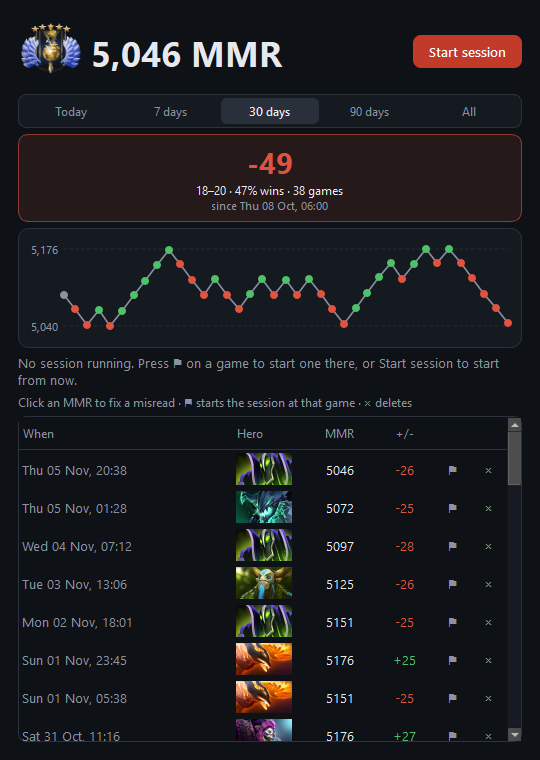
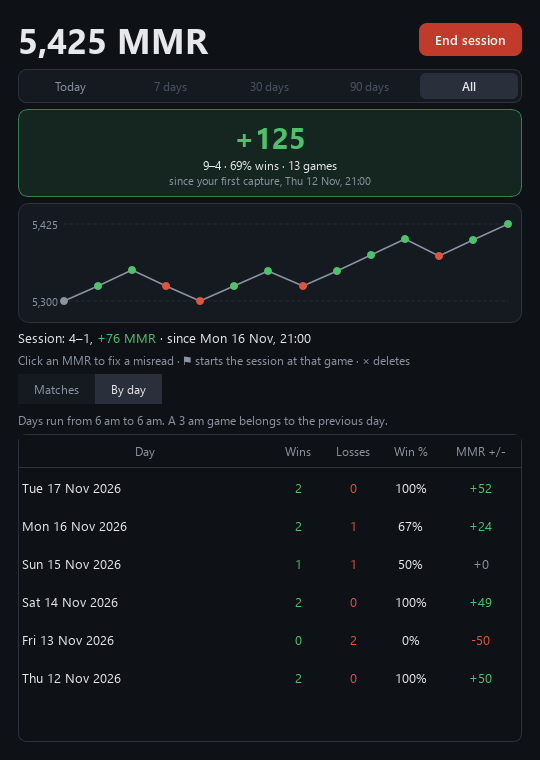
Refresh README screenshots for v0.4.3

diff --git a/README.md b/README.md
@@ -2,7 +2,7 @@
 
 A small always-on-top widget for Dota 2 ranked. It shows your medal and MMR, your last 5 games as W/L boxes with the **MMR +/- of each one**, and your session total. It reads your MMR straight off Dota's screen, so you see the change the moment you open your profile, with no waiting for Dota Plus.
 
-![widget](docs/widget.png)
+![Floating widget showing the last five W/L results and the green Auto toggle](docs/widget.png)
 
 ## Download
 
@@ -63,7 +63,7 @@ The three hotkeys are Ctrl+Shift plus a letter; change the letters under right-c
 - In the history window, pick a period (**Today, 7 days, 30 days, 90 days or All**): the card shows its MMR +/-, W–L and win %, a graph shows your MMR game by game, and the list shows just those games. A day runs from 6 am to 6 am, so a late-night session counts as that evening. Periods your log doesn't reach back to yet are greyed out.
 - Open **By day** in History to see each day's wins, losses, win rate and MMR change, newest first. It follows the selected period and shows days with recorded games. The date is the day the 6 am window starts: a game captured at 3 am Tuesday counts toward Monday, while a game at 6 am Tuesday counts toward Tuesday. Return to **Matches** to fix or delete individual captures.
 
-![history](docs/history.png)
+![History with By day selected, showing sample daily wins, losses, win rate, and MMR change](docs/history.png)
 
 ## Your medal
 
